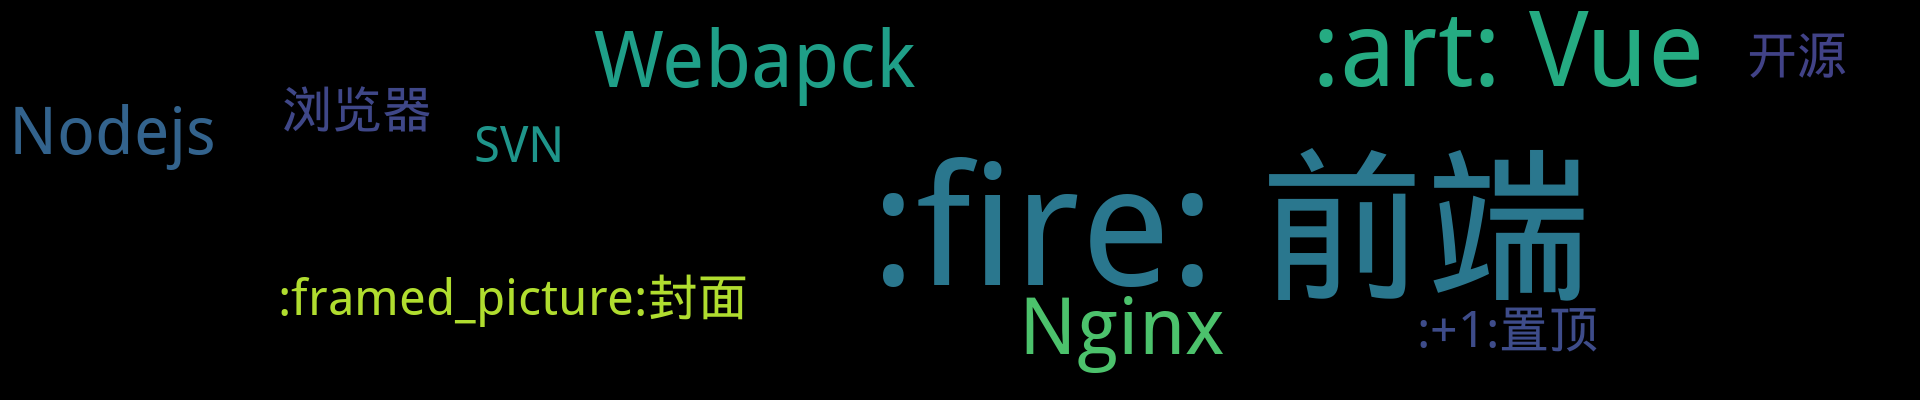
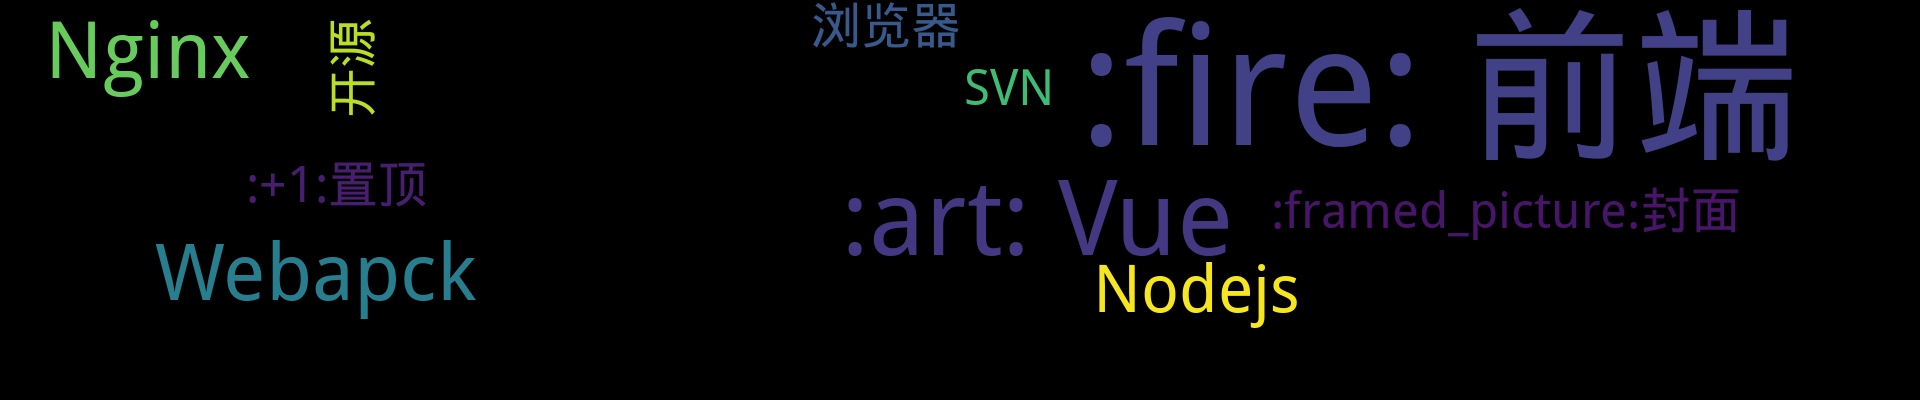
Update from Github Action

diff --git a/README.md b/README.md
@@ -3,7 +3,7 @@
 <p align='center'>
     <img src="https://badgen.net/badge/labels/20"/>
     <img src="https://badgen.net/github/issues/cklwblove/blog"/>
-    <img src="https://badgen.net/badge/last-commit/2021-07-08 09:50:49"/>
+    <img src="https://badgen.net/badge/last-commit/2021-07-09 08:29:47"/>
     <img src="https://badgen.net/github/forks/cklwblove/blog"/>
     <img src="https://badgen.net/github/stars/cklwblove/blog"/>
     <img src="https://badgen.net/github/watchers/cklwblove/blog"/>
@@ -20,6 +20,23 @@
 ## 置顶 :thumbsup: 
 - [微信浏览器H5页面软键盘关闭导致页面空缺的问题](https://github.com/cklwblove/blog/issues/2)  <sup>0 :speech_balloon:</sup>  	 
 ## 最新 :new: 
+
+#### [Unexpected unknown pseudo-element selector “::v-deep” selector-pseudo-element-no-unknown](https://github.com/cklwblove/blog/issues/83) <sup>0 :speech_balloon:</sup> 	 2021-07-09 08:29:14
+
+:label: : 
+
+解决方案：
+
+- 使 `selector-pseudo-element-no-unknown` 无效
+```
+## stylelint.config.js
+module.exports = {
+  extends: ['stylelint-config-standard', 'style
+
+[更多>>>](https://github.com/cklwblove/blog/issues/83)
+
+---
+
 
 #### [通用的浏览器统计数据](https://github.com/cklwblove/blog/issues/82) <sup>0 :speech_balloon:</sup> 	 2021-07-06 00:25:36
 
@@ -79,19 +96,6 @@ http {
 在做一个移动端登录的页面，页面需要输入手机号密码，当点击input输入框，点击完成，iOS键盘消失，input失去焦点，这时候发现再次点击input框的时候不能够获取焦点了。点击事件发生了错位，比如点击了上面，可是实际出发点击事件的位
 
 [更多>>>](https://github.com/cklwblove/blog/issues/79)
-
----
-
-
-#### [加载 mp4 文件出现 403](https://github.com/cklwblove/blog/issues/78) <sup>0 :speech_balloon:</sup> 	 2021-05-14 07:33:44
-
-:label: : [:fire: 前端](https://github.com/cklwblove/blog/labels/%3Afire%3A%20%E5%89%8D%E7%AB%AF)
-
-```
-<video src="http://XXXX.com/download/test.MP4" type="video/mp4" autoplay="autoplay" controls="controls" loop="-1" poster="false.png">
-  </video>
-
-[更多>>>](https://github.com/cklwblove/blog/issues/78)
 
 ---
 
